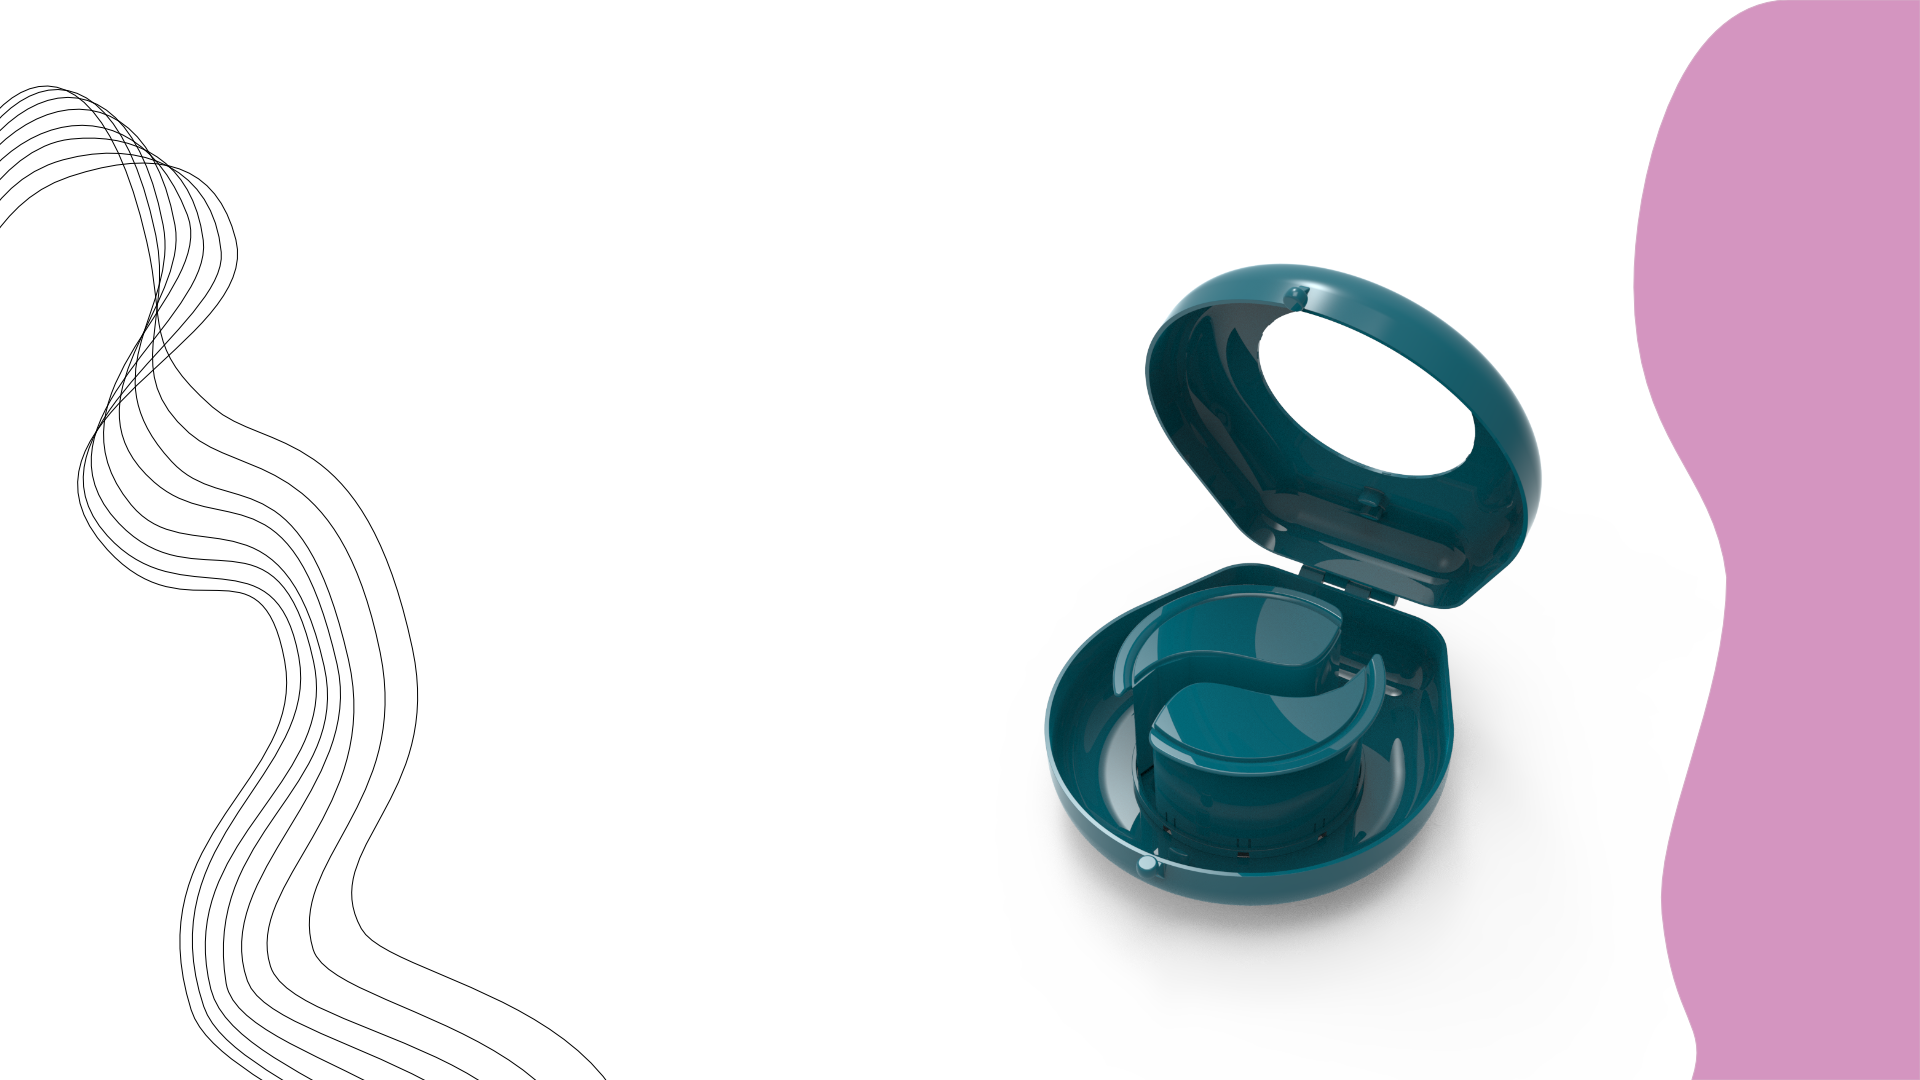
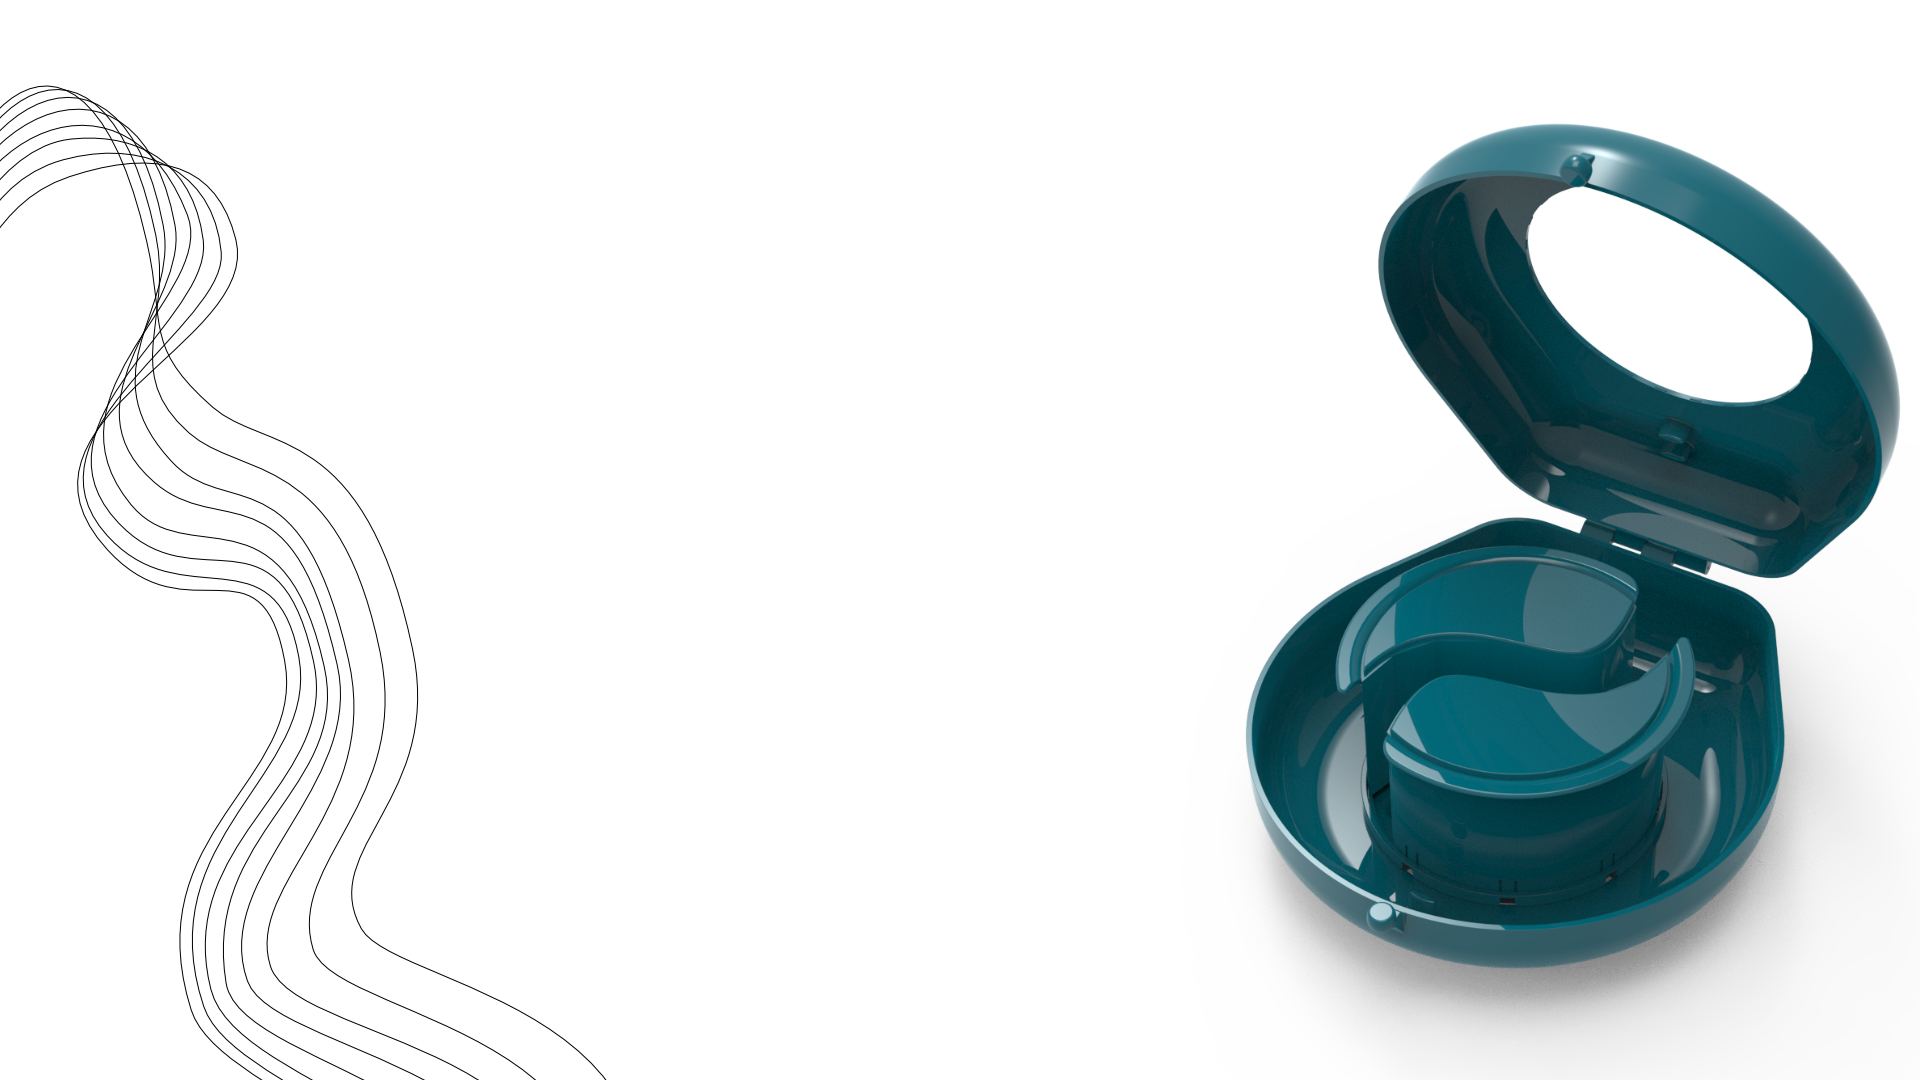
homepage styling

diff --git a/pages/indexStyles.js b/pages/indexStyles.js
@@ -1,14 +1,23 @@
 import styled from "styled-components";
-import backgroundImage from "../public/mainImage.png";
+import mainImage from "../public/mainImage.png";
+import backgroundImage from "../public/backgroundImage.png";
+
+export const MainBackground = styled.div`
+  /* display: inline-block; */
+  /* width: 100%; */
+  height: 850px;
+  background-image: url(${mainImage.src});
+  background-size: cover;
+  background-repeat: no-repeat;
+  background-position: center center;
+  background-size: 100% auto;
+`;
 
 export const Background = styled.div`
-  height: 750px;
+  height: 850px;
   /* width: 100%; */
-  /* background-color: red; */
   background-image: url(${backgroundImage.src});
   background-size: cover;
   background-repeat: no-repeat;
   background-position: center center;
-  /* background-position: calc(50% + 150px) 50%; */
-  /* margin-top: 3.2rem; */
 `;

diff --git a/pages/index.js b/pages/index.js
@@ -1,9 +1,9 @@
 import Navbar from "../components/navbar/Navbar";
-import { Background } from "./indexStyles";
+import { MainBackground, Background } from "./indexStyles";
 import styled from "styled-components";
 
 const Container = styled.div`
-  margin-left: -150px;
+  /* margin-left: -150px; */
   position: absolute;
   width: 550px;
   height: 150px;
@@ -32,11 +32,12 @@ function Main() {
   return (
     <section>
       <Navbar />
-      <Background>
+      <MainBackground>
         <Container>
           <Title>Lily Pointon</Title>
         </Container>
-      </Background>
+      </MainBackground>
+      <Background></Background>
     </section>
   );
 }
